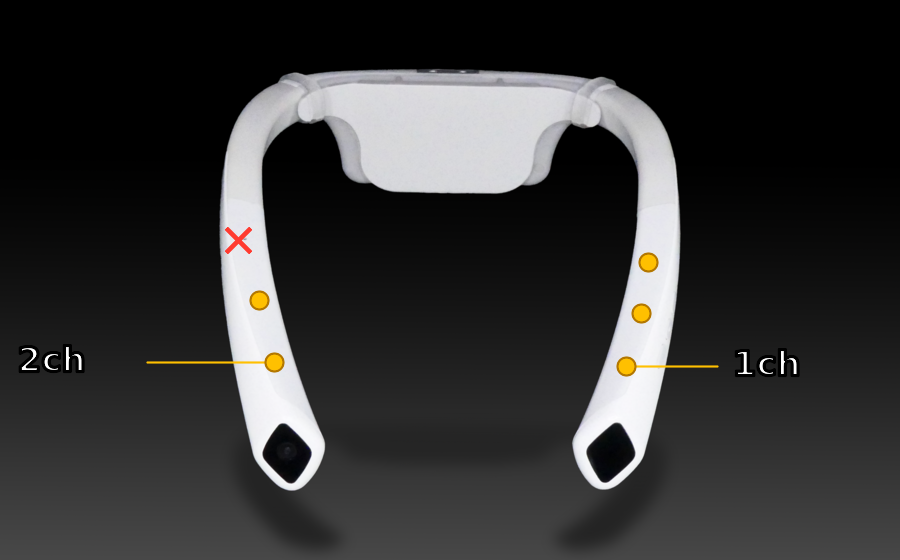
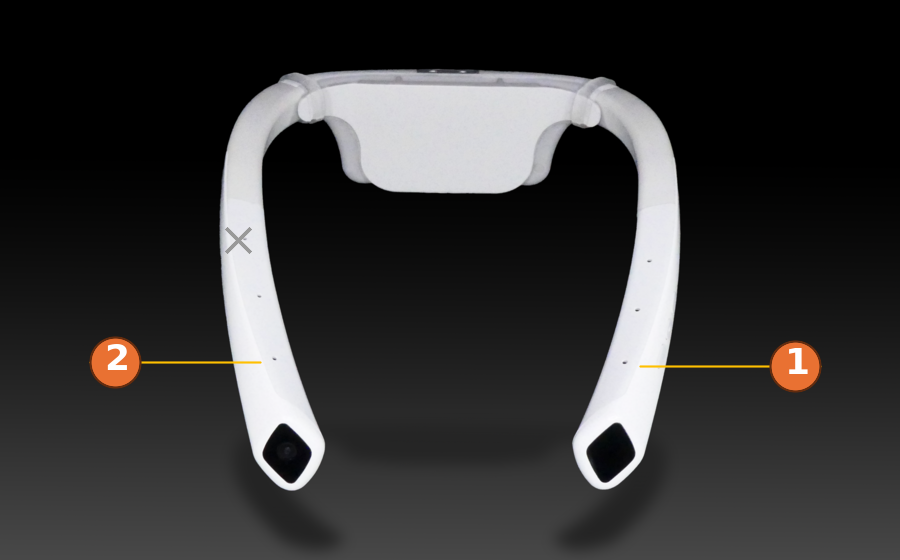
THINKLET cubeのマイクチャンネル配置を追加、THINKLETの表記も見直し

diff --git a/documents/docs/startGuide/5_buildMultiMic.md b/documents/docs/startGuide/5_buildMultiMic.md
@@ -15,19 +15,28 @@ THINKLET固有の機能を用いて、簡単な録音アプリを作ってみま
 完成品は、<SampleMultiAudioRecorderRoot /> にあります。
 
 ## マイクのチャンネル配置
-- THINKLETには5つのマイクが内蔵されています。
-- 取得するチャンネル数によって、どの物理マイクが何chに割り当てられるかが異なります。
+THINKLET・THINKLET cubeとも、5つのマイクが内蔵されています。取得するチャンネル数によって、どの物理マイクが何chに割り当てられるかが異なります。丸の中の数字は、その穴がそのチャンネル数で録音したときの何chに対応するかを表しています。
+
+### THINKLET
 
 | 1ch取得時 | 2ch取得時 |
 | :----------: | :----------: |
-| <img src={require('./img/hw/lc-01/mic/1ch.png').default} alt="1ch取得時のマイクチャンネル配置図。右腕上部のマイクのみが1chとして使用される。" style={{ width: '700px'}} /> | <img src={require('./img/hw/lc-01/mic/2ch.png').default} alt="2ch取得時のマイクチャンネル配置図。右腕上部が1ch、左腕下部が2ch。" style={{ width: '700px'}} /> |
+| <img src={require('./img/hw/lc-01/mic/1ch.png').default} alt="1ch取得時のマイクチャンネル配置図。右腕下部のマイクのみが1chとして使用される。" style={{ width: '900px'}} /> | <img src={require('./img/hw/lc-01/mic/2ch.png').default} alt="2ch取得時のマイクチャンネル配置図。右腕下部が1ch、左腕下部が2ch。" style={{ width: '900px'}} /> |
 
 | 5ch取得時 | 6ch取得時 |
 | :----------: | :----------: |
-| <img src={require('./img/hw/lc-01/mic/5ch.png').default} alt="5ch取得時のマイクチャンネル配置図。右腕上部が1ch、左腕下部が2ch、左腕中央が3ch、右腕中央が4ch、右腕下部が5ch。左腕上部はマイクではないダミー穴。" style={{ width: '700px'}} /> | <img src={require('./img/hw/lc-01/mic/6ch.png').default} alt="6ch取得時のマイクチャンネル配置図。右腕上部が1ch、左腕下部が2ch、左腕中央が3ch、右腕中央が5ch、右腕下部が6ch。4chは物理マイクのないループバック。左腕上部はマイクではないダミー穴。" style={{ width: '700px'}} /> |
+| <img src={require('./img/hw/lc-01/mic/5ch.png').default} alt="5ch取得時のマイクチャンネル配置図。右腕上部が1ch、左腕下部が2ch、左腕中央が3ch、右腕中央が4ch、右腕下部が5ch。左腕上部はマイクではないダミー穴。" style={{ width: '900px'}} /> | <img src={require('./img/hw/lc-01/mic/6ch.png').default} alt="6ch取得時のマイクチャンネル配置図。右腕上部が1ch、左腕下部が2ch、左腕中央が3ch、右腕中央が5ch、右腕下部が6ch。4chは物理マイクのないループバック。左腕上部はマイクではないダミー穴。" style={{ width: '900px'}} /> |
+
+### THINKLET cube
+
+<img
+  src={require('./img/hw/lc-02/mic/channels.png').default}
+  alt="THINKLET cubeのマイク穴配置図。カメラ上部に3つ、カメラ左側に2つの穴があり、1ch/2ch/5ch/6ch取得時それぞれのチャンネル番号を示す。"
+  style={{ width: '900px'}}
+/>
 
 :::info[補足]
-- 写真の「×」は、マイクではない「ダミー穴」です。
+- THINKLETの写真の「×」は、マイクではない「ダミー穴」です。
 - 6ch取得時の4chはループバックで、物理的なマイクには対応しません。
 :::
 
